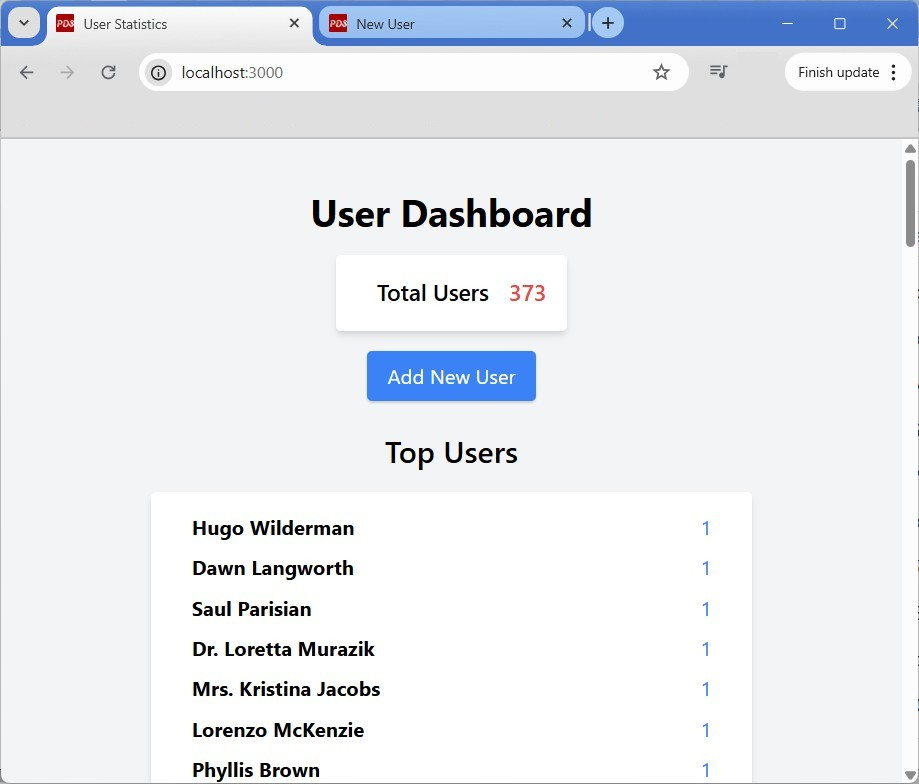
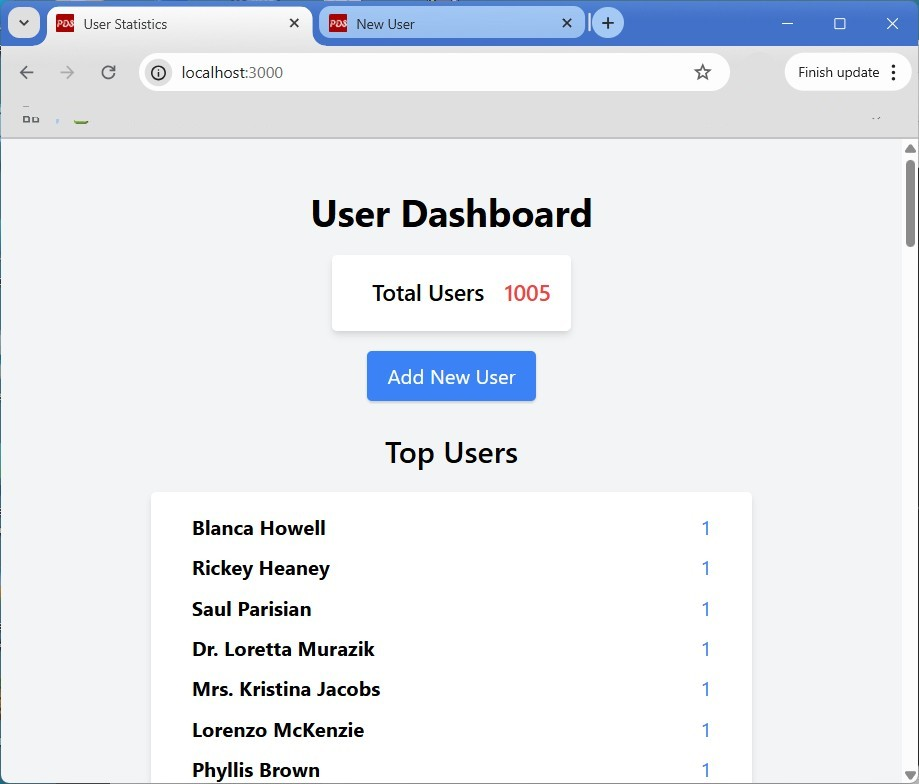
write more

diff --git a/README.3.md b/README.3.md
@@ -6,8 +6,50 @@
 Redis is a memory-first, NoSQL database. Once processed, there's no point to keep our ever-growing stream in RAM anymore. To complete with our ecosystem, we are going to persist stream data to disk, I mean to save them to MariaDB. 
 
 
-#### I. 
+#### I. System Design  
+To begin with: 
+```
+npm install prisma --save-dev
 
+npx prisma init
+```
+
+RDBMS can not do with schema. Let's define User model in  `prisma/schema.js`:
+```
+datasource db {
+  provider = "mysql"
+  url      = env("DATABASE_URL")
+}
+
+// "male", "female", or "unknown"
+enum Gender {
+  male    @map("male")
+  female  @map("female")
+  unknown @map("unknown")
+}
+
+model User {
+  id        String   @id @default(uuid()) // Unique user ID
+  fullname  String
+  email     String   @unique
+  birthdate BigInt   @default(19000101) // Stored in YYYYMMDD format
+  gender    Gender
+  phone     String
+  createdAt DateTime @default(now()) // ISO 8601 timestamp
+
+  @@fulltext([fullname])
+  @@map("users")
+}
+```
+
+As I have stated, Prisma is a mature ORM tools which support bi-direction schema evolution: 
+![alt prisma help](img/npx-prisma-help.JPG)
+
+The simplest form being: 
+![alt prisma db help](img/npx-prisma-db-help.JPG)
+- 
+- 
+- 
 
 #### II. 
 
